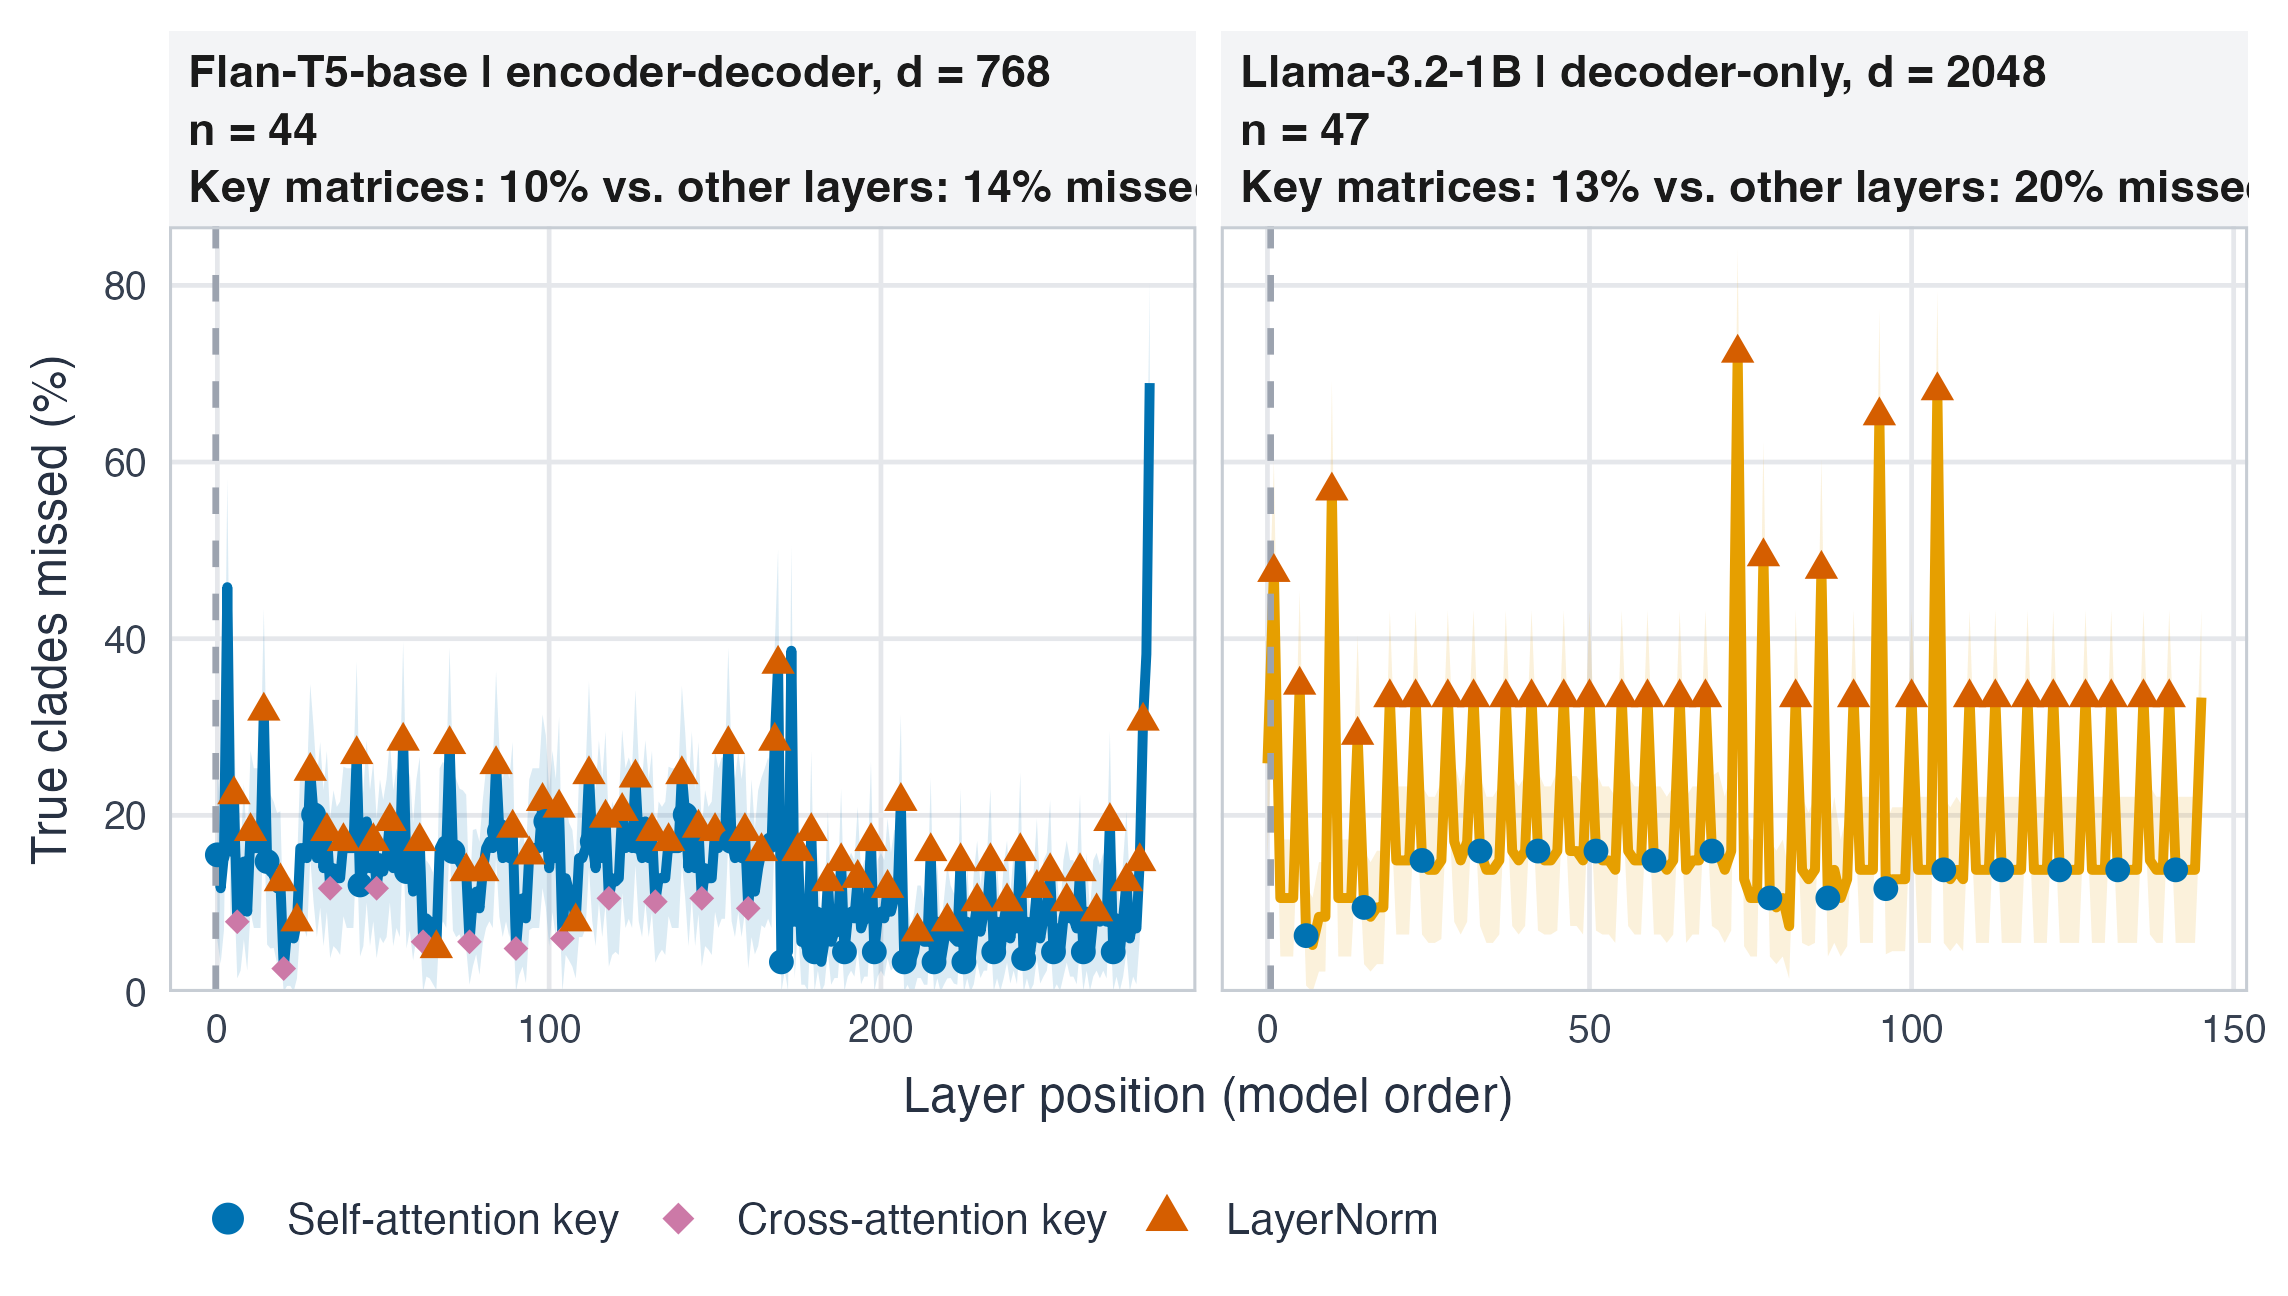
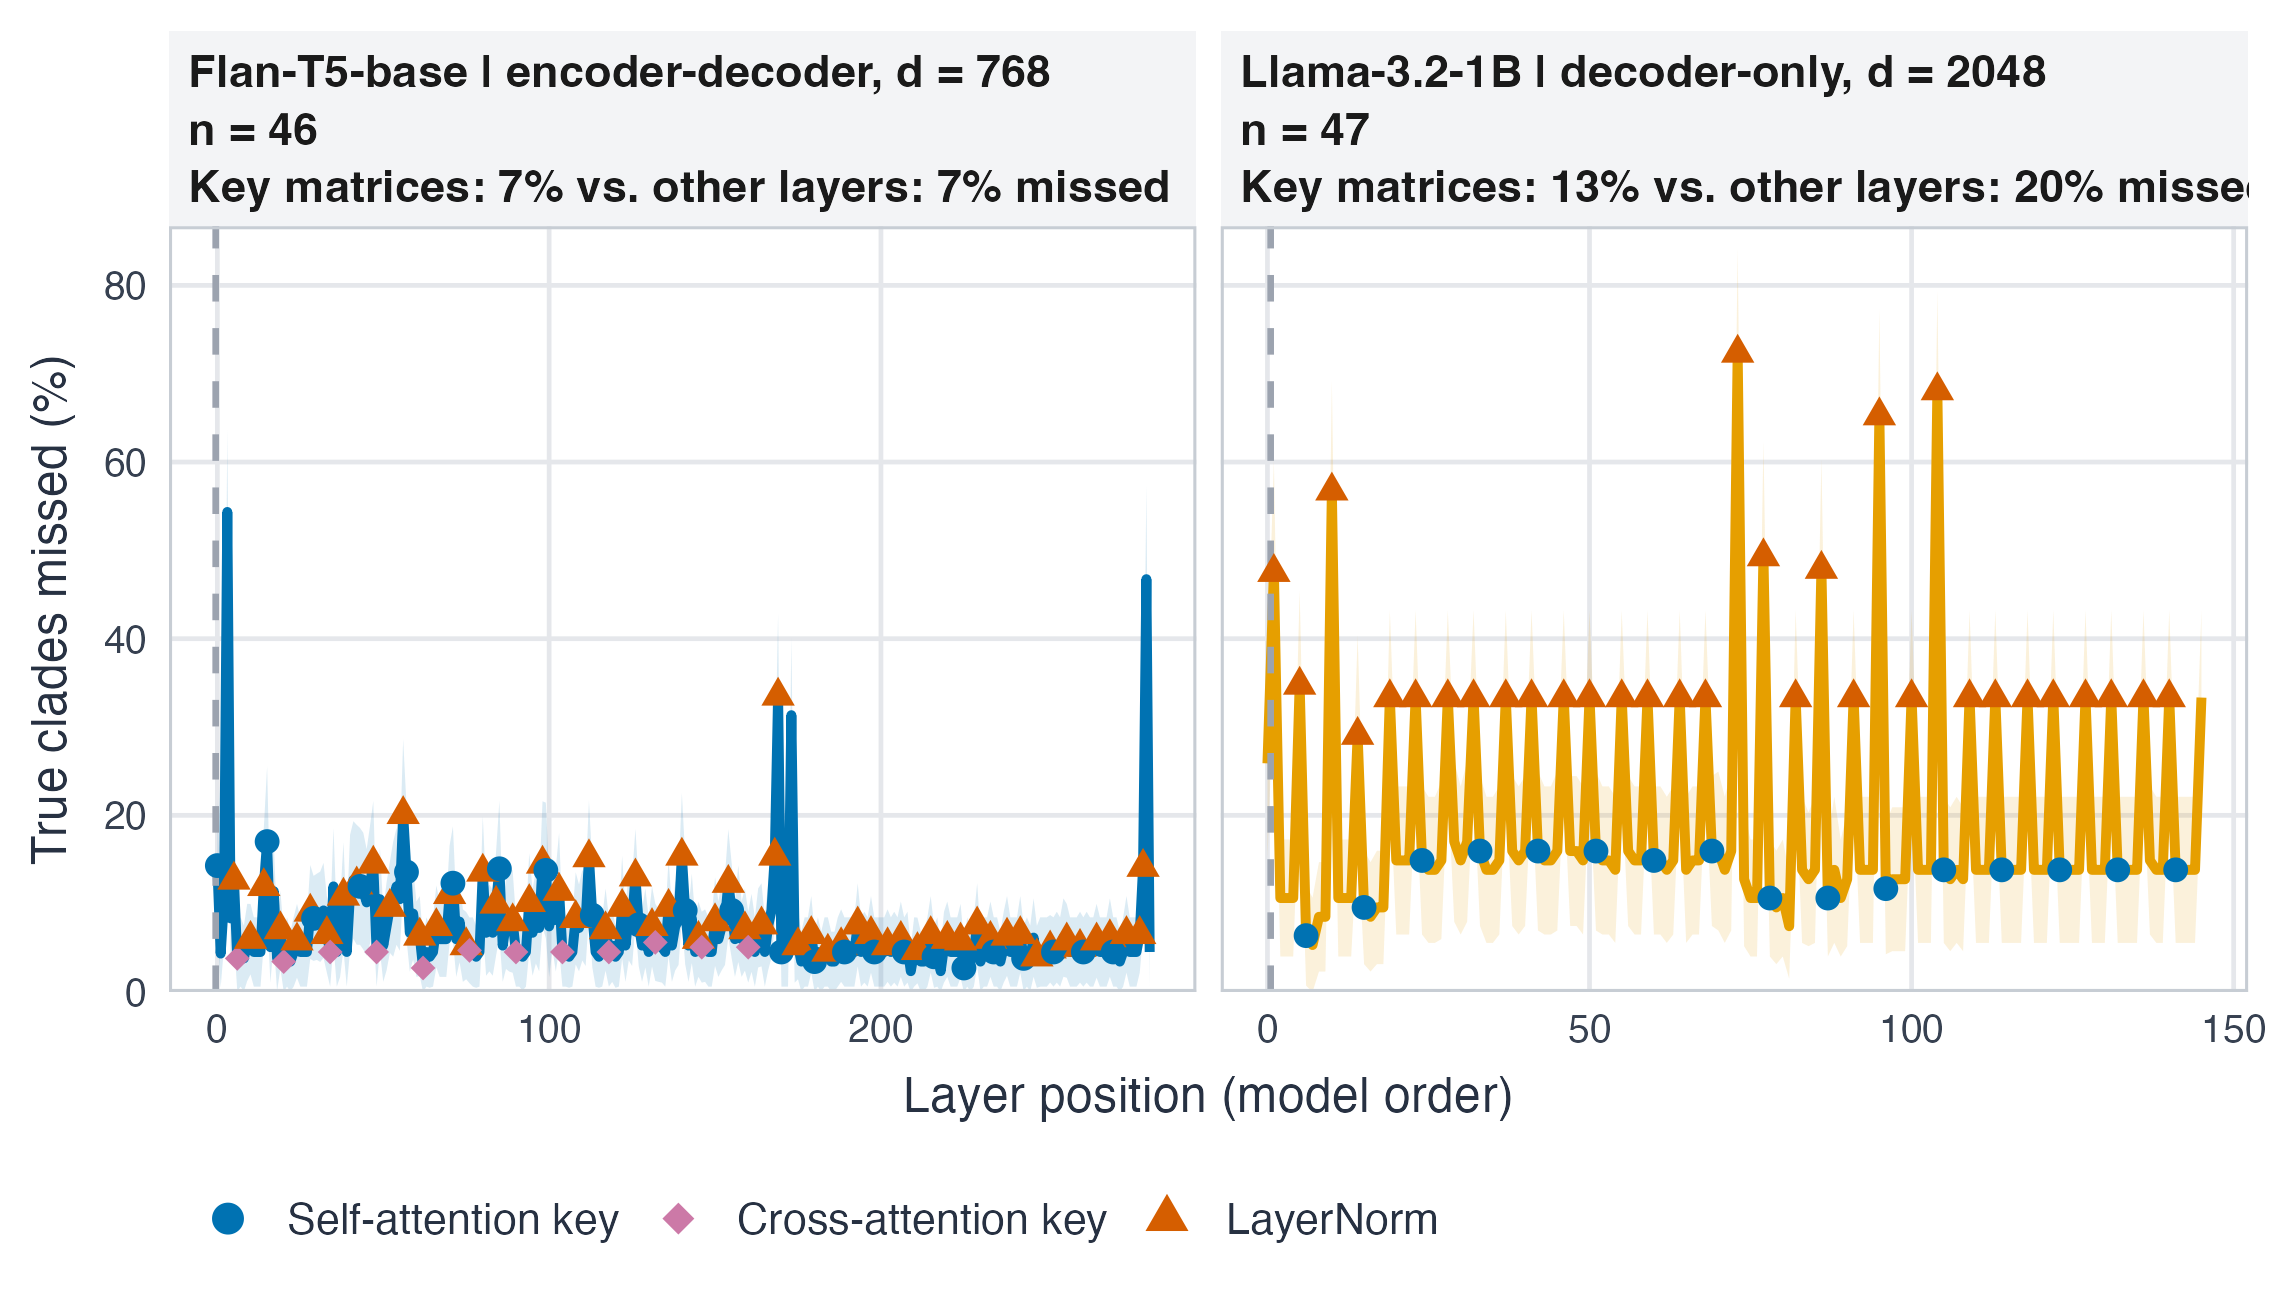
Refresh LayerTrace on fresh Flan trees

diff --git a/iclr_draft_v4.tex b/iclr_draft_v4.tex
@@ -576,9 +576,9 @@ The fresh PhyloLM comparison generates all 50 trees in each shared-tree Llama co
 topology summaries use the common 46-tree subset after excluding four truths with no nontrivial
 unrooted split (topology IDs 015, 020, 037, and 047); matched weight values in
 Table~\ref{tab:variants} are computed on those same 46 trees.
-The Flan per-layer profile in
-Fig.~\ref{fig:layertrace_grid} is a separate earlier archive and uses $n=44$: three of its 47 recovery
-runs have 281 rather than the canonical 282 aligned tensor entries and cannot enter a position-wise mean.
+The Flan per-layer profile in Fig.~\ref{fig:layertrace_grid} is rescored from the saved distance cubes
+on the same 46 topology-eligible fresh full-fine-tuning trees. The Llama panel remains the earlier
+full-fine-tuning archive with $n=47$.
 
 \subsection*{Training Configuration}
 \paragraph{Flan-T5-base.} Each node trained for 2,000 steps, learning rate $3 \times 10^{-4}$, batch size 8, gradient accumulation 4 (effective batch 32), warmup 200 steps, weight decay 0.01, and bf16 precision. We used up to 10,000 training examples and 1,000 evaluation examples per dataset, with a fixed dataset seed across all nodes to avoid data variation as a confound.
@@ -643,26 +643,24 @@ Variant & Target modules & Trainable params & \% of model \\
 \subsection*{LayerTrace: Per-Layer Recovery}
 \label{app:layertrace}
 Treating each layer as an independent estimator, Fig.~\ref{fig:layertrace_grid} reports the per-layer
-FN-rate across architectures. The attention key matrices recur once per block and miss the fewest true
-clades (10\% vs.\ 14\% elsewhere in Flan; 13\% vs.\ 20\% in Llama), while \textsc{LayerNorm} is the
-periodic maximum. In Flan the encoder \textsc{SelfAttention.k} and encoder--decoder cross-attention
-keys are lowest; the decoder-only model recovers the same key-matrix carrier without any
-cross-attention. Across blocks every block contributes, with slight evidence that earlier blocks carry
-somewhat more signal.
+FN-rate across architectures. On the fresh Flan trees the signal is diffuse across individual tensors:
+attention key matrices and the remaining tensors each miss about 7\% of true clades on average. This
+does not conflict with Table~\ref{tab:layer_subsets}, where averaging only the 12 encoder
+\textsc{SelfAttention.k} matrices matches the all-weight reconstruction. The earlier Llama profile is
+more key-concentrated (13\% missed for key matrices vs.\ 20\% elsewhere). \textsc{LayerNorm} produces
+prominent periodic maxima in both panels.
 
 \begin{figure}[h]
   \begin{center}
     \includegraphics[width=\linewidth]{\figpath/fig3_layertrace_grid.pdf}
   \end{center}
   \caption{Per-layer FN-rate (\% of true clades missed; mean $\pm$ 2\,SE, cosine, full
-    fine-tuning) for an encoder--decoder (Flan-T5-base, $d{=}768$, $n=44$) and a decoder-only model
-    (Llama-3.2-1B, $d{=}2048$, $n=47$). The same layers carry lineage in both: the attention
-    \emph{key} matrices recur once per block and miss the fewest true clades (10\% vs.\ 14\%
-    elsewhere in Flan; 13\% vs.\ 20\% in Llama), while \textsc{LayerNorm} is the periodic maximum
-    (noise floor). The decoder-only model recovers the same key-matrix carrier without any
-    cross-attention, so the localization is not an encoder--decoder artifact. Point colors and markers
-    encode tensor family consistently across panels; the blue and orange summary lines distinguish
-    Flan and Llama.}
+    fine-tuning) for an encoder--decoder (fresh Flan-T5-base, $d{=}768$, $n=46$) and a decoder-only
+    model (earlier Llama-3.2-1B archive, $d{=}2048$, $n=47$). Flan key matrices and other tensors each
+    average about 7\% missed clades, whereas the Llama profile remains more key-concentrated (13\%
+    vs.\ 20\%). \textsc{LayerNorm} produces prominent local maxima. Point colors and markers encode
+    tensor family consistently across panels; the blue and orange summary lines distinguish Flan and
+    Llama.}
   \label{fig:layertrace_grid}
 \end{figure}
 

diff --git a/REPRODUCIBILITY.md b/REPRODUCIBILITY.md
@@ -29,7 +29,7 @@ pdfinfo _b.pdf | grep Pages     # main text ends p9; refs p10+ don't count to th
 | `fig:overview` | `fig1_paper_overview.pdf` | `figures/fig1_paper_overview.tex` (standalone TikZ, in this repo) | Schematic; no data. |
 | `fig:coherence_recovery` | `fig4_coherence_atteson.pdf` | `WeightTraits/scripts/build_merged_weight_figure2.py` → `ELLMTrees/scripts/ggplot/make_merged_weight_figure2.R` | Panel A fitted Atteson diagnostic; Panel B raw quartet additivity; full-weight and matched fresh PhyloLM summaries; paired 2,000-replicate tree bootstrap. |
 | `fig:real-trees` | `hf_mistral_hero_3panel.pdf` | same ggplot pipeline, using the scored truth/weight/PhyloLM Newick trees | Organic Mistral `d_mistral_7b`: FN=0, **100% clade recovery** on all 3 SFT→RLHF/DPO splits; weight ⟨A⟩=0.98. |
-| `fig:layertrace_grid` | `fig3_layertrace_grid.pdf` | same ggplot pipeline; data calculation reuses `scripts/make_layertrace_grid.py` | App. B. Key matrices are highlighted against the full per-layer profiles. |
+| `fig:layertrace_grid` | `fig3_layertrace_grid.pdf` | ggplot pipeline; fresh Flan profile rescored from `../WeightTraits/outputs/analysis_v20260713/full_finetune/*/model_leaf_analysis/direct_distance_layers.npz` on 46 eligible trees; Llama profile reuses the earlier `scripts/make_layertrace_grid.py` archive | App. B. Key matrices are highlighted against the full per-layer profiles. |
 | `fig:blackbox_hero` | `hero_phylogeny_treespace.png` | `scripts/frechet_task_trees.py` → `scripts/make_hero_figure.py` | 21 models, per-prompt Fréchet (n=264). Run frechet_task_trees first. |
 | `fig:frechet_grid` | `frechet_grid_tasks.png` | `scripts/make_frechet_grid.py` | Appendix. Overall + 4 per-task Fréchet trees. |
 | `fig:regression_diagnostics` | `regression_diagnostics_semantic.pdf` | same ggplot pipeline, reading the six per-pair regression CSVs | Appendix F. |
